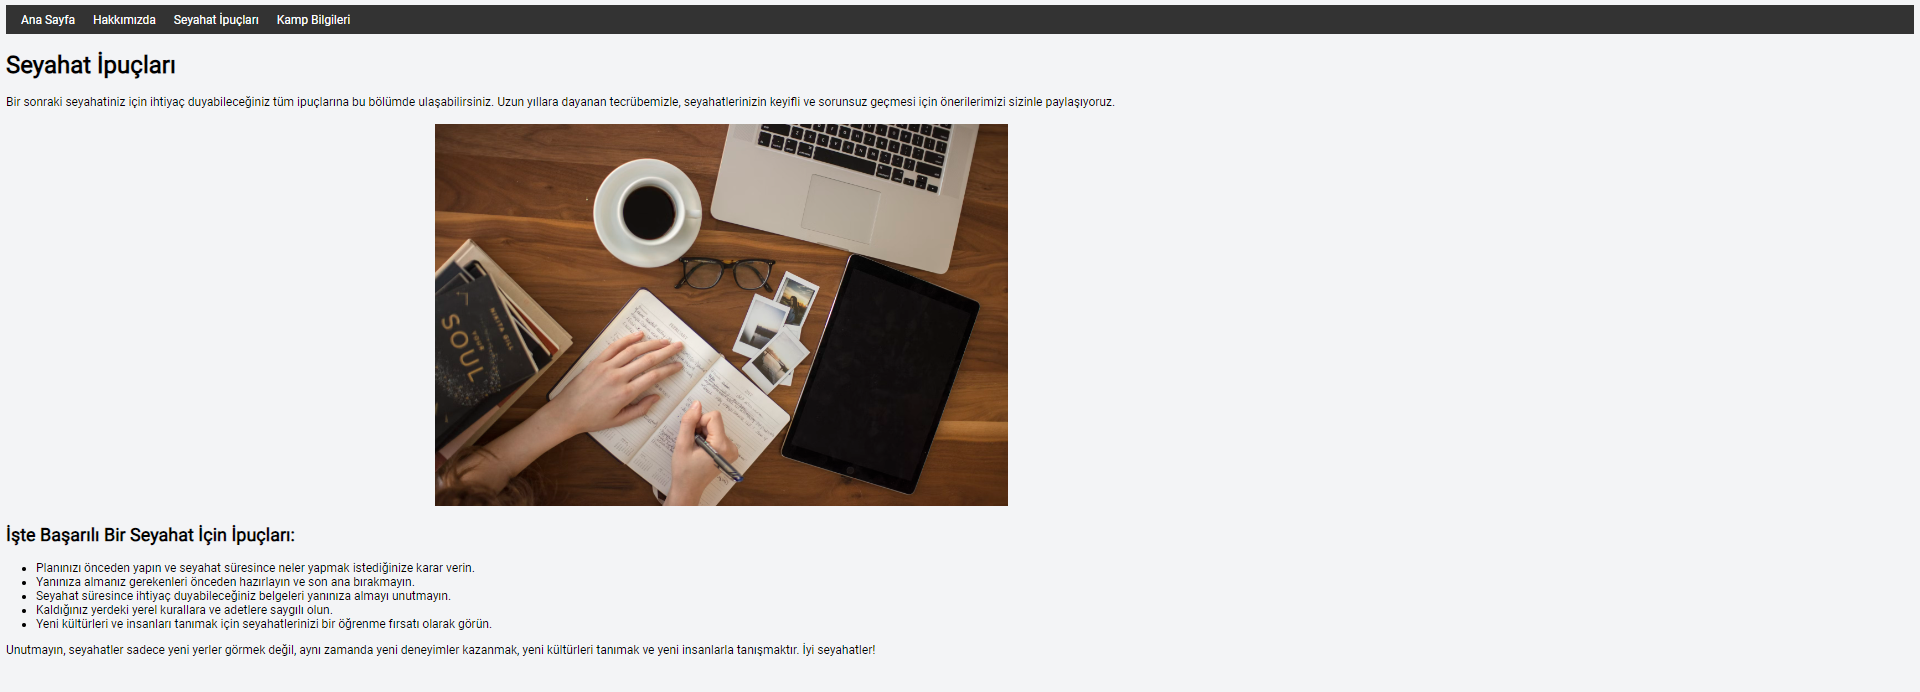
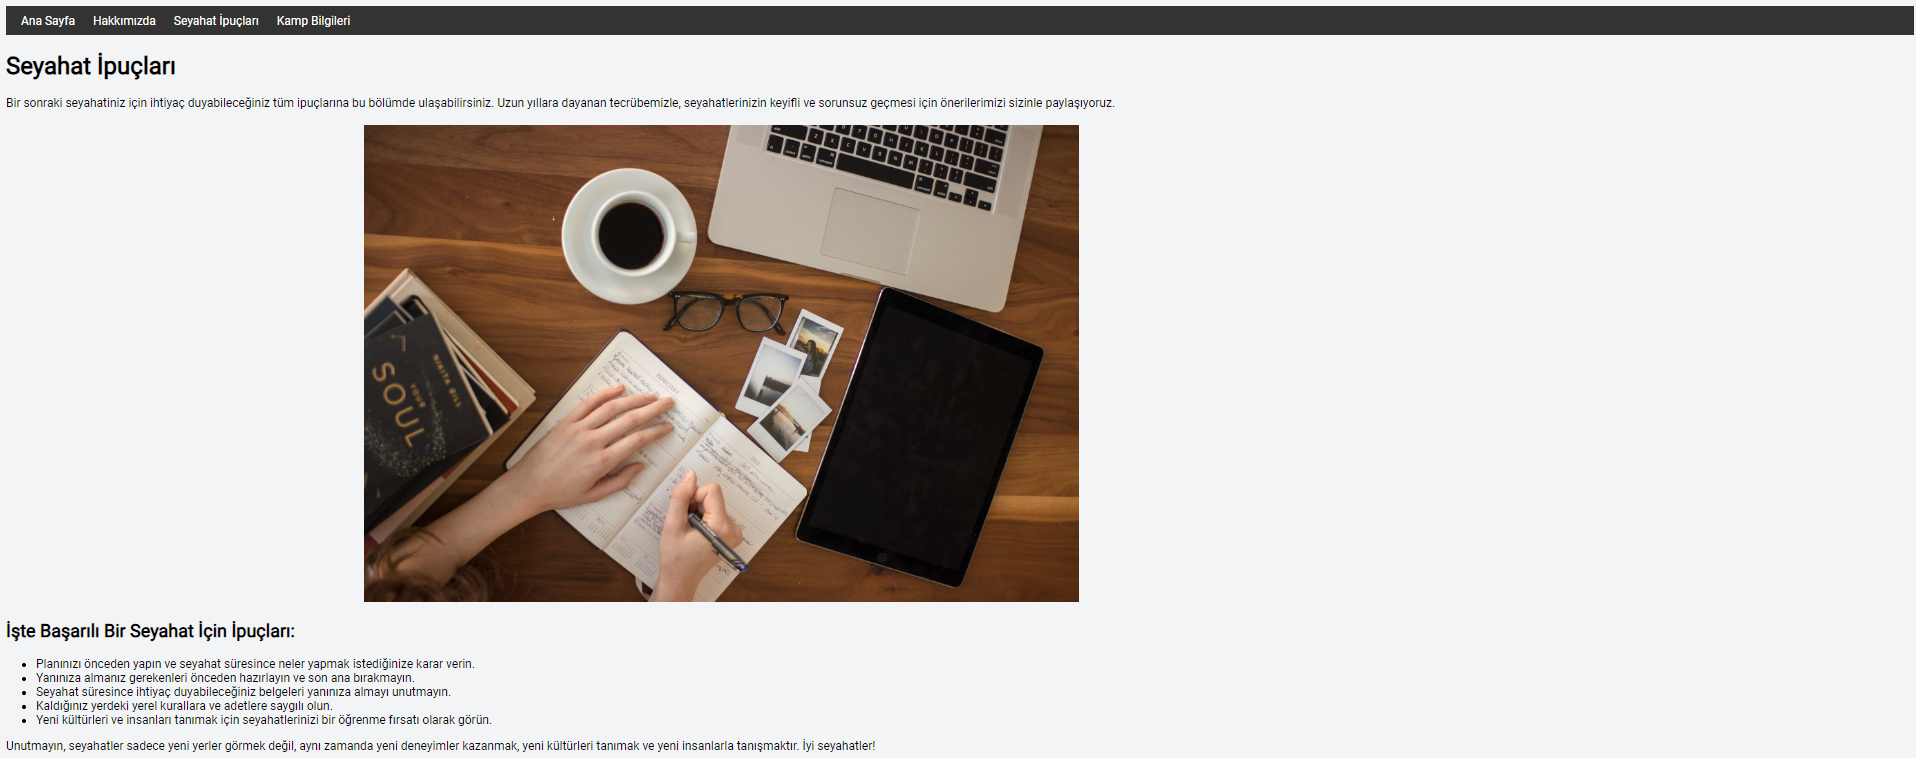
Değişiklik

Changed region(s): [[0.0, 0.0, 0.5851, 1.0], [0.0, 0.7587, 0.154, 0.789], [0.9854, 0.0, 1.0, 0.0607]]

diff --git a/seyahatipuclari.html b/seyahatipuclari.html
@@ -30,7 +30,7 @@
         }
 
         img {
-            max-width: 40%; /* Resimlerin sayfa genişliğini aşmaması için */
+            max-width: 50%; /* Resimlerin sayfa genişliğini aşmaması için */
         }
     </style>
 </head>
